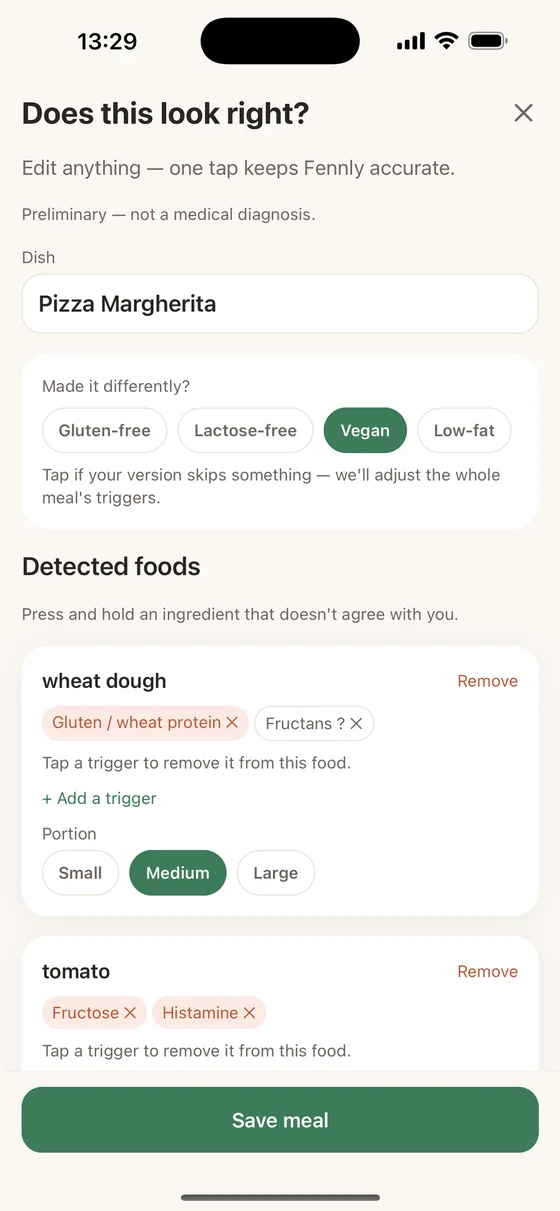
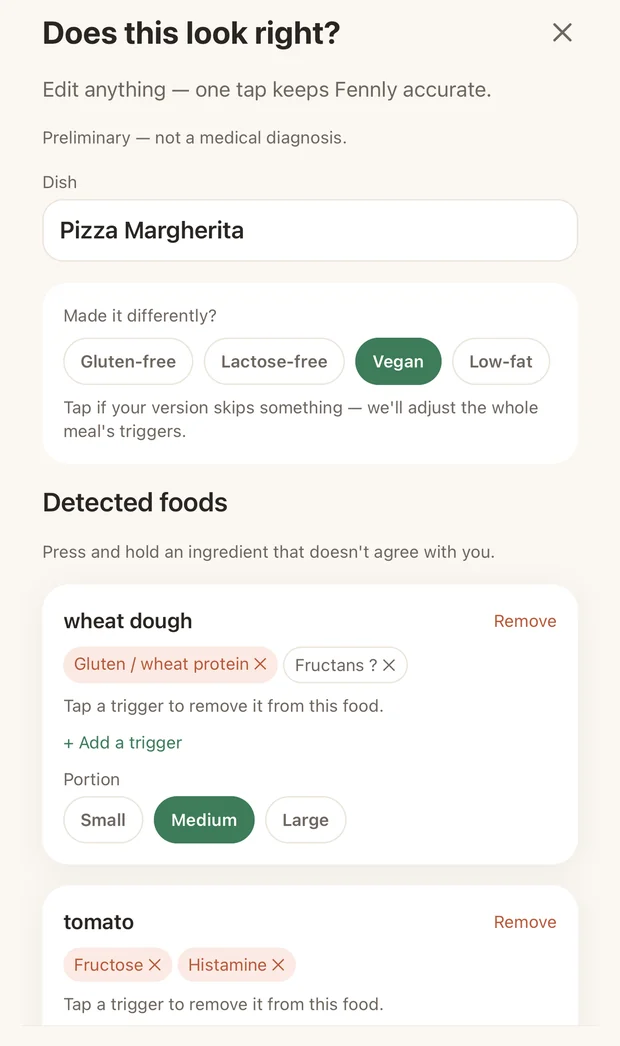
landing: cropped screenshots, tuned image sizing

diff --git a/index.html b/index.html
@@ -53,8 +53,8 @@
   h1 em{font-style:normal;color:var(--sage)}
   .lede{font-size:19px;color:var(--muted);margin:0 0 26px;max-width:30em}
   .hero-shot{position:relative}
-  .hero-shot img{width:100%;max-width:330px;margin:0 auto;border-radius:26px;
-    box-shadow:0 24px 60px -18px rgba(42,38,34,.32)}
+  .hero-shot img{width:100%;max-width:392px;margin:0 auto;border-radius:20px;border:1px solid var(--line);
+    box-shadow:0 22px 54px -20px rgba(42,38,34,.28)}
 
   /* store buttons */
   .stores{display:flex;flex-wrap:wrap;gap:12px;margin-bottom:16px}
@@ -78,12 +78,12 @@
 
   .steps{display:grid;grid-template-columns:repeat(3,1fr);gap:26px}
   .step{background:var(--card);border:1px solid var(--line);border-radius:var(--radius);
-    padding:24px 22px 0;overflow:hidden}
+    padding:24px 22px;overflow:hidden}
   .num{width:30px;height:30px;border-radius:9px;background:var(--sage);color:#fff;
     display:grid;place-items:center;font-weight:700;font-size:15px;margin-bottom:14px}
   .step h3{margin:0 0 7px;font-size:19px;letter-spacing:-.3px}
-  .step p{margin:0 0 20px;color:var(--muted);font-size:15.5px}
-  .step img{border-radius:14px 14px 0 0;box-shadow:0 -1px 0 var(--line)}
+  .step p{margin:0 0 18px;color:var(--muted);font-size:15.5px}
+  .step img{border-radius:12px;border:1px solid var(--line)}
 
   .feats{display:grid;grid-template-columns:repeat(3,1fr);gap:18px}
   .feat{background:var(--card);border:1px solid var(--line);border-radius:var(--radius);padding:24px}
@@ -93,8 +93,8 @@
   .split{display:grid;grid-template-columns:1fr 1fr;gap:48px;align-items:center;
     background:var(--card);border:1px solid var(--line);border-radius:26px;
     padding:44px;margin-bottom:22px}
-  .split img{max-width:300px;border-radius:20px;margin:0 auto;
-    box-shadow:0 18px 44px -16px rgba(42,38,34,.26)}
+  .split img{max-width:352px;border-radius:18px;margin:0 auto;border:1px solid var(--line);
+    box-shadow:0 16px 40px -18px rgba(42,38,34,.22)}
   .split h2{font-size:clamp(23px,2.8vw,29px)}
   .split p{color:var(--muted);margin:0}
 
@@ -132,7 +132,7 @@
     .lede{margin-left:auto;margin-right:auto}
     .stores{justify-content:center}
     .hero-shot{order:-1}
-    .hero-shot img{max-width:250px}
+    .hero-shot img{max-width:300px}
     .steps,.feats{grid-template-columns:1fr}
     .split{grid-template-columns:1fr;padding:30px;text-align:center;gap:28px}
     .split .txt{order:2}
@@ -174,7 +174,7 @@
       </div>
       <p class="trust"><b>Free to download.</b> Your data stays in the EU. Delete it any time.</p>
     </div>
-    <div class="hero-shot"><img src="assets/suspects.webp" alt="Fennly showing ranked suspected food triggers, with lactose at the top" width="560" height="1211" fetchpriority="high"></div>
+    <div class="hero-shot"><img src="assets/suspects.webp" alt="Fennly showing ranked suspected food triggers, with lactose at the top" width="620" height="829" fetchpriority="high"></div>
   </div>
 
   <section>
@@ -187,19 +187,19 @@
         <div class="num">1</div>
         <h3>Snap your meal</h3>
         <p>Fennly recognises the dish and splits it into ingredients with their trigger categories. It knows a pizza is dough, cheese and tomato.</p>
-        <img src="assets/capture.webp" alt="Meal photo broken down into detected ingredients" loading="lazy" width="560" height="1211">
+        <img src="assets/capture.webp" alt="Meal photo broken down into detected ingredients" loading="lazy" width="620" height="1046">
       </div>
       <div class="step">
         <div class="num">2</div>
         <h3>Say how you feel</h3>
         <p>Ten seconds in the evening. Bloating, cramps, fatigue, headache, skin. Or an acute entry the moment it hits.</p>
-        <img src="assets/log.webp" alt="Logging options: photo, voice, text, evening recap, acute entry" loading="lazy" width="560" height="1211">
+        <img src="assets/log.webp" alt="Logging options: photo, voice, text, evening recap, acute entry" loading="lazy" width="620" height="689">
       </div>
       <div class="step">
         <div class="num">3</div>
         <h3>Meet your suspects</h3>
         <p>After a few days Fennly ranks what is statistically most likely behind your symptoms, with a confidence score for each.</p>
-        <img src="assets/suspects.webp" alt="Ranked list of suspected triggers with confidence scores" loading="lazy" width="560" height="1211">
+        <img src="assets/suspects.webp" alt="Ranked list of suspected triggers with confidence scores" loading="lazy" width="620" height="829">
       </div>
     </div>
   </section>
@@ -225,10 +225,10 @@
         <h2>A hunch is not an answer. So Fennly tests it.</h2>
         <p>When a suspect is strong enough, Fennly walks you through a proper elimination and reintroduction test: cut it for a set window, then bring it back, and read the verdict. That is the same method a dietitian would use, minus the paperwork.</p>
       </div>
-      <img src="assets/test.webp" alt="Guided elimination test for lactose over seven days" loading="lazy" width="560" height="1211">
+      <img src="assets/test.webp" alt="Guided elimination test for lactose over seven days" loading="lazy" width="620" height="1047">
     </div>
     <div class="split">
-      <img src="assets/withwithout.webp" alt="Comparison of symptom load on days with and without a suspected trigger" loading="lazy" width="560" height="1211">
+      <img src="assets/withwithout.webp" alt="Comparison of symptom load on days with and without a suspected trigger" loading="lazy" width="620" height="1066">
       <div class="txt">
         <h2>See the difference, do not just feel it</h2>
         <p>Days with the suspect against days without, side by side. It is the moment most people stop guessing, and the chart you can hand to your doctor instead of trying to remember what you ate three Tuesdays ago.</p>
@@ -300,7 +300,7 @@
       </div>
       <p class="trust"><b>Kostenlos laden.</b> Deine Daten liegen in der EU. Jederzeit löschbar.</p>
     </div>
-    <div class="hero-shot"><img src="assets/suspects.webp" alt="Fennly zeigt die wahrscheinlichsten Auslöser, ganz oben Laktose" width="560" height="1211"></div>
+    <div class="hero-shot"><img src="assets/suspects.webp" alt="Fennly zeigt die wahrscheinlichsten Auslöser, ganz oben Laktose" width="620" height="829"></div>
   </div>
 
   <section>
@@ -313,19 +313,19 @@
         <div class="num">1</div>
         <h3>Mahlzeit fotografieren</h3>
         <p>Fennly erkennt das Gericht und zerlegt es in Zutaten mit ihren Auslöser-Kategorien. Es weiß, dass eine Pizza aus Teig, Käse und Tomate besteht.</p>
-        <img src="assets/capture.webp" alt="Foto einer Mahlzeit, aufgeschlüsselt in erkannte Zutaten" loading="lazy" width="560" height="1211">
+        <img src="assets/capture.webp" alt="Foto einer Mahlzeit, aufgeschlüsselt in erkannte Zutaten" loading="lazy" width="620" height="1046">
       </div>
       <div class="step">
         <div class="num">2</div>
         <h3>Befinden erfassen</h3>
         <p>Zehn Sekunden am Abend. Blähbauch, Krämpfe, Müdigkeit, Kopfschmerzen, Haut. Oder ein Akuteintrag genau dann, wenn es losgeht.</p>
-        <img src="assets/log.webp" alt="Erfassungsoptionen: Foto, Sprache, Text, Abend-Rückblick, Akuteintrag" loading="lazy" width="560" height="1211">
+        <img src="assets/log.webp" alt="Erfassungsoptionen: Foto, Sprache, Text, Abend-Rückblick, Akuteintrag" loading="lazy" width="620" height="689">
       </div>
       <div class="step">
         <div class="num">3</div>
         <h3>Verdächtige ansehen</h3>
         <p>Nach ein paar Tagen zeigt dir Fennly, was statistisch am ehesten hinter deinen Beschwerden steckt, mit einem Sicherheitswert pro Verdacht.</p>
-        <img src="assets/suspects.webp" alt="Rangliste der verdächtigen Auslöser mit Sicherheitswerten" loading="lazy" width="560" height="1211">
+        <img src="assets/suspects.webp" alt="Rangliste der verdächtigen Auslöser mit Sicherheitswerten" loading="lazy" width="620" height="829">
       </div>
     </div>
   </section>
@@ -351,10 +351,10 @@
         <h2>Eine Vermutung ist keine Antwort. Also testet Fennly sie.</h2>
         <p>Wenn ein Verdacht stark genug ist, führt dich Fennly durch einen richtigen Eliminations- und Wiedereinführungstest: für einen festen Zeitraum weglassen, dann zurückholen, Ergebnis ablesen. Dieselbe Methode wie in der Ernährungsberatung, nur ohne Zettelwirtschaft.</p>
       </div>
-      <img src="assets/test.webp" alt="Geführter Eliminationstest für Laktose über sieben Tage" loading="lazy" width="560" height="1211">
+      <img src="assets/test.webp" alt="Geführter Eliminationstest für Laktose über sieben Tage" loading="lazy" width="620" height="1047">
     </div>
     <div class="split">
-      <img src="assets/withwithout.webp" alt="Vergleich der Beschwerden an Tagen mit und ohne den verdächtigen Auslöser" loading="lazy" width="560" height="1211">
+      <img src="assets/withwithout.webp" alt="Vergleich der Beschwerden an Tagen mit und ohne den verdächtigen Auslöser" loading="lazy" width="620" height="1066">
       <div class="txt">
         <h2>Den Unterschied sehen, nicht nur ahnen</h2>
         <p>Tage mit dem Verdächtigen gegen Tage ohne, direkt nebeneinander. Das ist der Moment, in dem die meisten aufhören zu raten. Und die Grafik, die du deiner Ärztin zeigen kannst, statt zu rekonstruieren, was du vor drei Dienstagen gegessen hast.</p>
